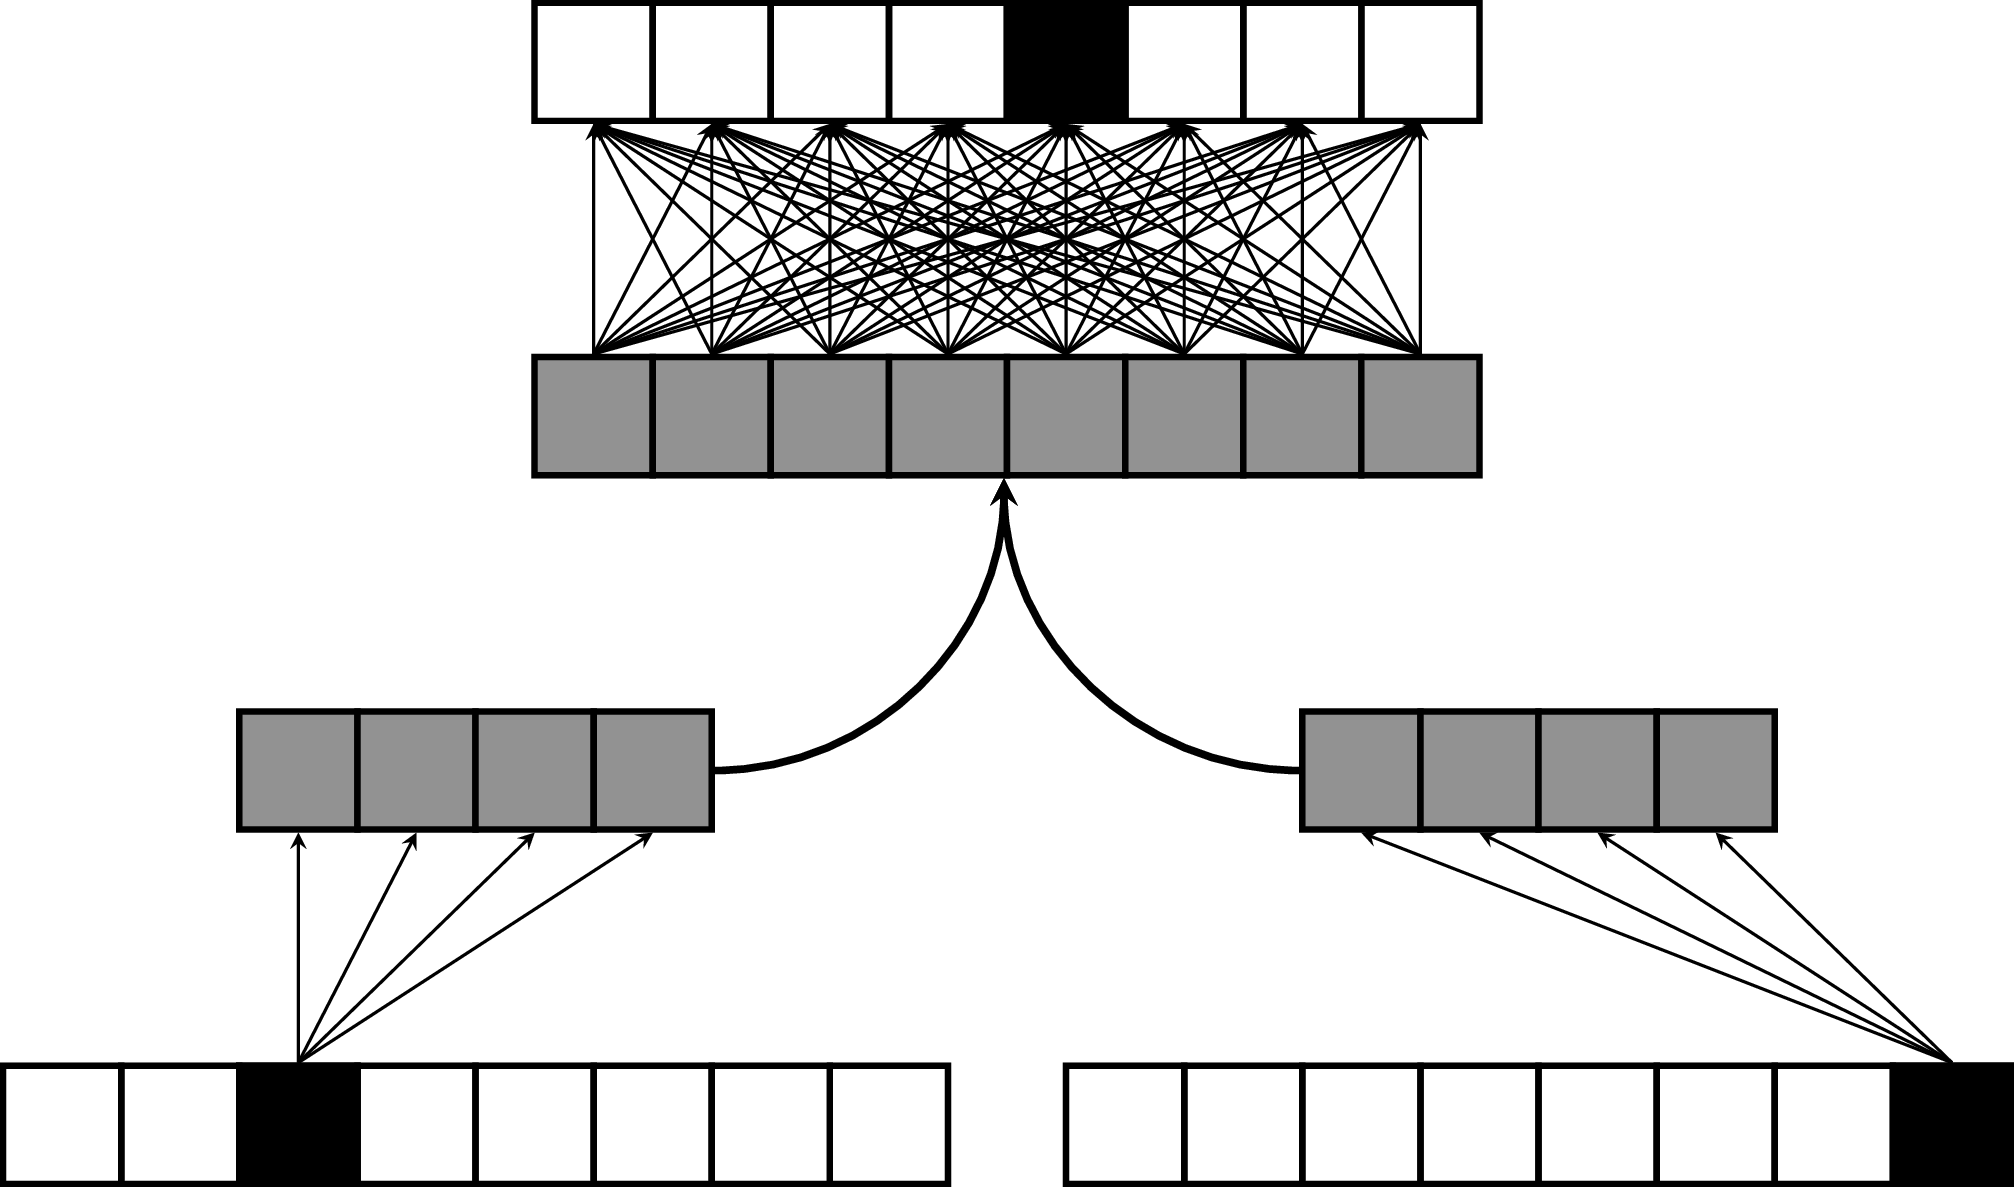
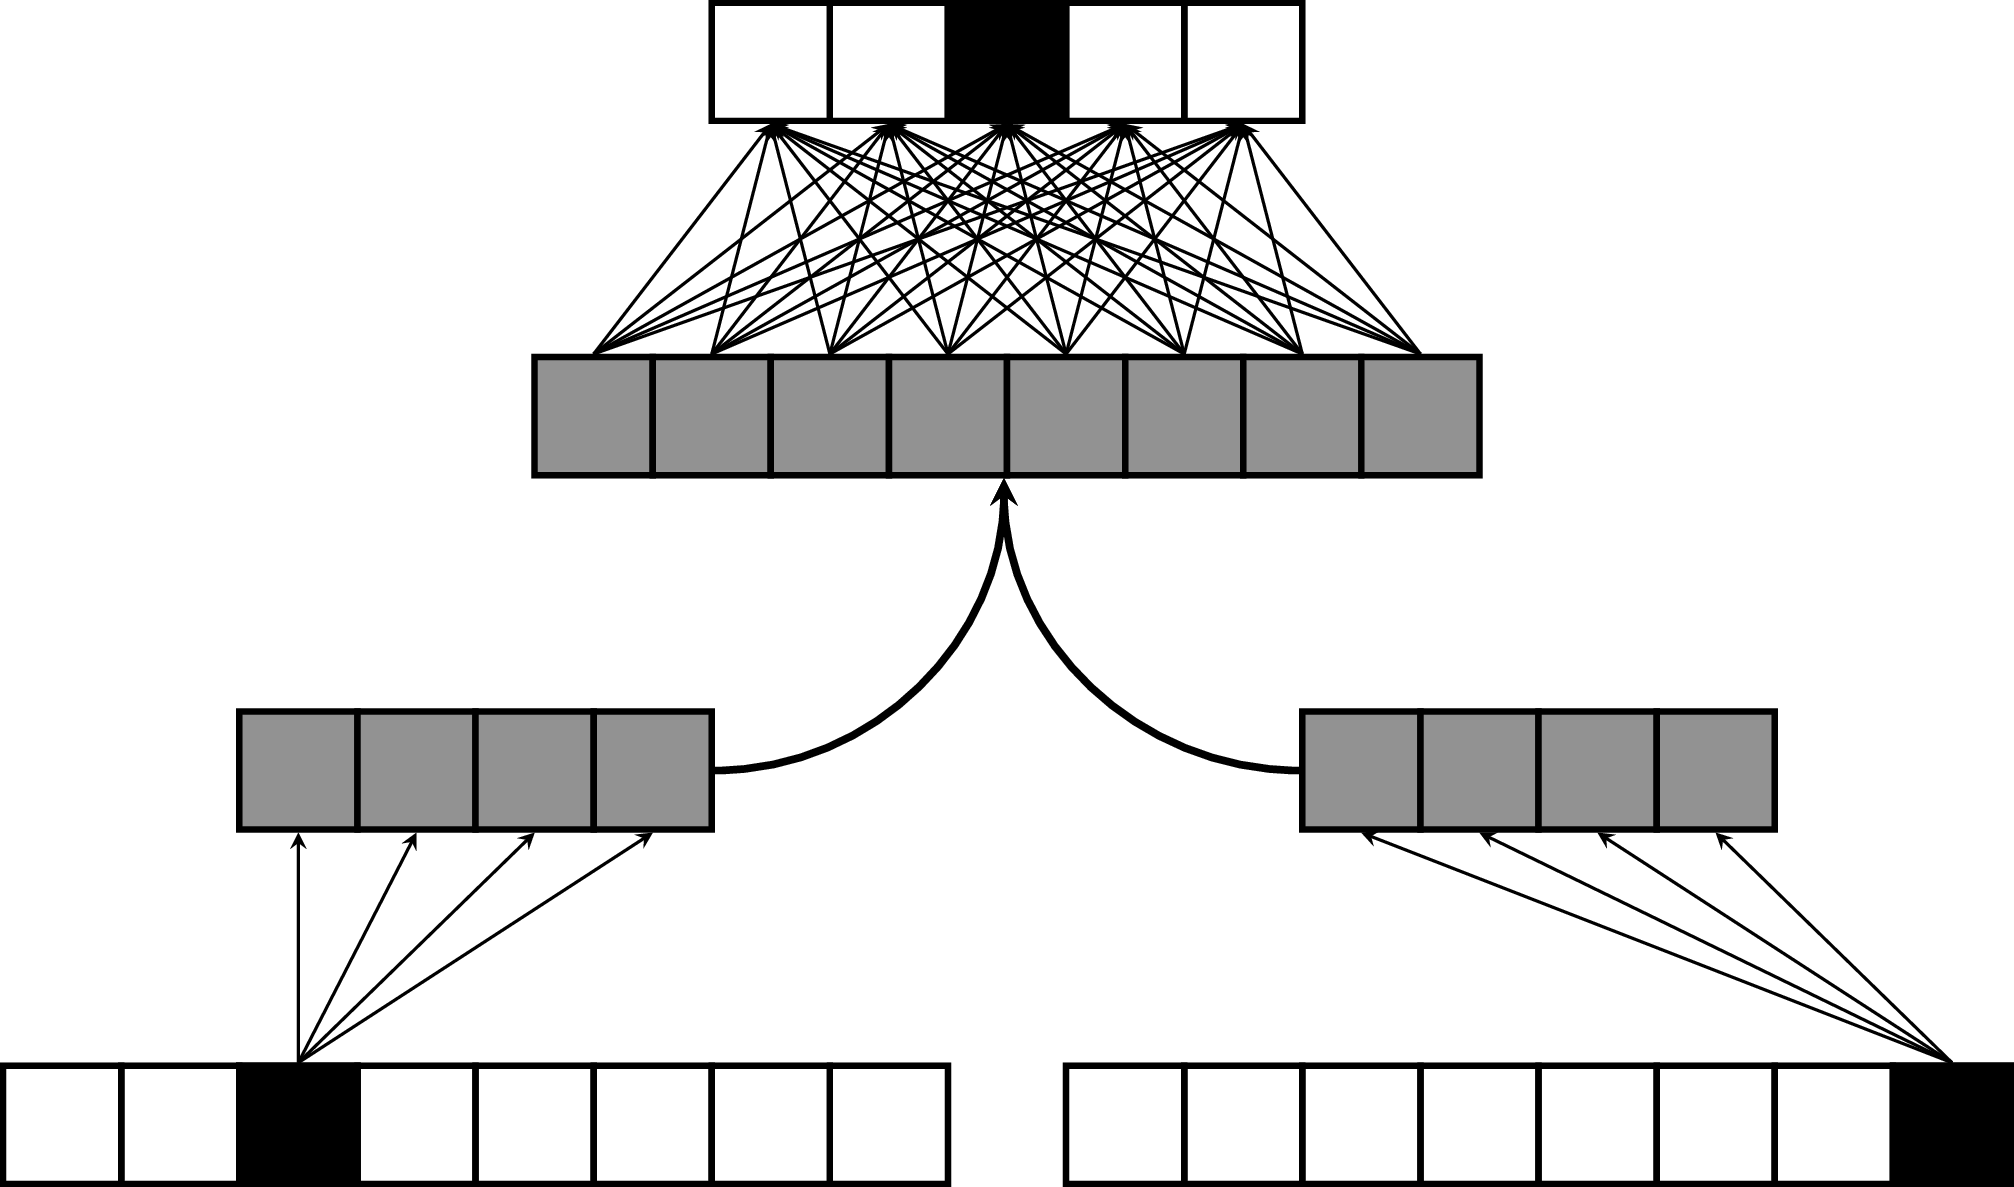
Paper updates.

Changed region(s): [[0.2463, 0.0, 0.7388, 0.3117]]

diff --git a/paper/batter_pitcher_2vec.tex b/paper/batter_pitcher_2vec.tex
@@ -22,7 +22,7 @@
 
 \addbibresource{batter_pitcher_2vec.bib}
 
-\title{(batter|pitcher)2vec: better at-bat modeling with neural player embeddings}
+\title{\texttt{(batter|pitcher)2vec}: better at-bat modeling with neural player embeddings}
 \date{}
 
 \author{
@@ -61,7 +61,7 @@ Whereas the WAR statistic uses a combination of conventional baseball statistics
 
 When scouts assess the talent of a player, they do not simply count up the number of times the player made it to first base or struck out. They consider the player's tendencies in a number of different contexts. For example, a scout might notice that a certain left-handed batter tends to ground out to third base when facing left-handed curveball pitchers. Or that a certain right-handed fastball pitcher tends to struggle against short right-handed batters. An algorithm capable of learning these subtleties would be a valuable tool for assessing player talent.
 
-The task of extracting informative measures of talent in Major League Baseball (MLB) players has a surprising parallel in the field of natural language processing, word embedding modeling. Words, like MLB players, can be considered distinct elements in a set, and one common way to represent categorical data in machine learning algorithms is with one-hot encodings. A one-hot encoding is an $N$-dimensional vector (where $N$ is the number of elements in the set) consisting entirely of zeros except for a single one at the location corresponding to the element's index. For example, the one-hot encodings for a vocabulary consisting of the words \{"dog", "cat", "constitutional"\} might be $\begin{bsmallmatrix} 1 & 0 & 0 \end{bsmallmatrix}$, $\begin{bsmallmatrix} 0 & 1 & 0 \end{bsmallmatrix}$, and $\begin{bsmallmatrix} 0 & 0 & 1 \end{bsmallmatrix}$, respectively.
+The task of extracting informative measures of talent for Major League Baseball (MLB) players has a surprising parallel in the field of natural language processing, the construction of useful word embeddings. Words, like MLB players, can be considered distinct elements in a set, and one common way to represent such categorical data in machine learning algorithms is as one-hot encodings. A one-hot encoding is an $N$-dimensional vector (where $N$ is the number of elements in the set) consisting entirely of zeros except for a single one at the location corresponding to the element's index. For example, the one-hot encodings for a vocabulary consisting of the words \{"dog", "cat", "constitutional"\} might be $\begin{bsmallmatrix} 1 & 0 & 0 \end{bsmallmatrix}$, $\begin{bsmallmatrix} 0 & 1 & 0 \end{bsmallmatrix}$, and $\begin{bsmallmatrix} 0 & 0 & 1 \end{bsmallmatrix}$, respectively.
 
 One drawback of one-hot encodings is that each vector in the set is orthogonal to and equidistant from every other vector in the set; i.e., every element in the set is equally similar (or dissimilar) to every other element in the set. Words, however, do exhibit varying degrees of semantic similarity. For example, the words "dog" and "cat" are clearly semantically more similar than the words "dog" and "constitutional". Word embeddings mathematically encode such similarities as geometric properties (e.g., cosine similarity or Euclidean distance), and the use of these representations generally leads to more computationally efficient learning algorithms \parencite{Bengio2003}.
 
@@ -128,19 +128,19 @@ Play-by-play data for each game from the 2013, 2014, 2015, and 2016 seasons were
 \label{fig:batter_pitcher}
 \end{figure}
 
-The \texttt{(batter|pitcher)2vec} model architecture can be seen in Figure~\ref{fig:batter_pitcher}, and the similarities between \texttt{(batter|pitcher)2vec} and \texttt{word2vec} should be readily apparent. The model takes one-hot encodings of a batter and pitcher as input and selects the player embeddings from the the batter (\ref{eqn:batter_embedding}) and pitcher (\ref{eqn:pitcher_embedding}) embedding matrices, respectively.
+The \texttt{(batter|pitcher)2vec} model architecture can be seen in Figure~\ref{fig:batter_pitcher}, and the similarities between \texttt{(batter|pitcher)2vec} and \texttt{word2vec} should be readily apparent. The model takes one-hot encodings of a batter and pitcher as input and then selects the corresponding player weights from the the batter (\ref{eqn:batter_embedding}) and pitcher (\ref{eqn:pitcher_embedding}) weight matrices, respectively. The player weight vectors are then passed through a "sigmoid"/logistic activation function.
 
 \begin{equation}
 \label{eqn:batter_embedding}
-w_b = W_B \cdot h_b
+w_b = \sigma(W_B \cdot h_b)
 \end{equation}
 
 \begin{equation}
 \label{eqn:pitcher_embedding}
-w_p = W_P \cdot h_p
+w_p = \sigma(W_P \cdot h_p)
 \end{equation}
 
-Here, $h_b$ is the $N_B$-dimensional one-hot vector (where $N_B$ is the number of batters) for the batter indexed by $b$, $W_B$ is the batter embedding matrix, and $w_b$ is the batter's embedding (i.e., the column in $W_B$ indexed by $b$). Likewise, $h_p$ is the $N_P$-dimensional one-hot vector for the pitcher indexed by $p$, $W_P$ is the pitcher embedding matrix, and $w_p$ is the pitcher's embedding.
+Here, $h_b$ is the $N_B$-dimensional one-hot vector (where $N_B$ is the number of batters) for the batter indexed by $b$, $W_B$ is the batter embedding matrix, $\sigma$ is the logistic activation function (i.e., $\frac{1}{1 + e^{-x}}$) and $w_b$ is the batter's embedding. Likewise, $h_p$ is the $N_P$-dimensional one-hot vector for the pitcher indexed by $p$, $W_P$ is the pitcher embedding matrix, and $w_p$ is the pitcher's embedding.
 
 The batter and pitcher embeddings are then concatenated together (\ref{eqn:concat}) and fed into a standard softmax layer (\ref{eqn:output} and \ref{eqn:prob}), which outputs a probability distribution over at-bat outcomes.
 
@@ -175,9 +175,9 @@ The model was implemented in Keras 2.0 \parencite{Keras2015} and trained on a la
 \section{Results}
 \label{results}
 
-\subsection{Visual inspection of player embeddings}
+\subsection{Visual inspection of the player embeddings}
 
-A visual inspection of the player embeddings can provide some intuition for what the model was learning. Two-dimensional embeddings of the batter and pitcher embeddings were obtained using the t-SNE algorithm \parencite{VanderMaaten2008} and can be seen in Figure~\ref{fig:tsne}. Intriguing player clusterings are readily apparent, for example, Mike Trout and Paul Goldschmidt, Dee Gordon and Ichiro Suzuki, and Aroldis Chapman and Dellin Betances are all close pairs.
+A visual inspection of the player embeddings can provide some intuition for what the model learned. Two-dimensional embeddings of the batter and pitcher embeddings were obtained using the t-SNE algorithm \parencite{VanderMaaten2008} and can be seen in Figure~\ref{fig:tsne}. Intriguing player clusterings are readily apparent, with close pairs including: Mike Trout/Paul Goldschmidt, Dee Gordon/Ichiro Suzuki, and Aroldis Chapman/Dellin Betances.
 
 \begin{figure}
 \captionsetup[subfigure]{labelformat=empty}
@@ -226,7 +226,7 @@ Coloring batters according to various properties and plotting them on the first 
 
 Further insight about the player embeddings can be obtained by inspecting the neighborhoods of different players. As suggested by the t-SNE figure, Paul Goldschmidt is Mike Trout's nearest neighbor; an unsurprising result considering how each athlete is known for his rare blend of speed and power \parencite{Kory2015}. Similarly, Ichiro Suzuki is Dee Gordon's nearest neighbor, and both have a reputation for being able to get on base \parencite{Sullivan2015}. Notably, when clustering players using common MLB stats (e.g., HRs, RBIs), Paul Goldschmidt is not among Mike Trout's ten nearest neighbors, nor is Ichiro Suzuki among Dee Gordon's ten nearest neighbors.
 
-On the pitching side, Craig Kimbrel is Aroldis Chapman's nearest neighbor, which is unsurprising considering both are known as elite closers with overpowering fastballs \parencite{Mirsky2016}. Other nearest neighbors are not as immediately intuitive, for example, Clayton Kershaw and Craig Stammen and Sonny Gray and Jake Arrieta, but a method like \texttt{(batter|pitcher)2vec} could potentially reveal surprising similarities between players who are not considered similar by human standards.
+On the pitching side, Craig Kimbrel is Aroldis Chapman's nearest neighbor, which is unsurprising considering both are known as elite closers with overpowering fastballs \parencite{Mirsky2016}. Similarly, Félix Hernández's two nearest neighbors are Jean Machi and Carlos Carrasco, each of whom includes a pitch with incredible movement in his repertoire \parencite{Buchanan2015, Romano2015, Berg2016}. Other nearest neighbors are not as immediately intuitive, for example, Clayton Kershaw and Craig Stammen (although, Zack Greinke is Kershaw's second closest neighbor), but a method like \texttt{(batter|pitcher)2vec} could potentially reveal surprising similarities between players who are not considered similar by human standards.
 
 \subsection{Opposite-handed dopplegängers}
 
@@ -238,7 +238,7 @@ A similar type of algebra may be possible with the \texttt{(batter|pitcher)2vec}
 
 The representations learned by neural networks are theoretically interesting because they suggest the models are learning "causal" factors from inputs when they are able to generalize (or transfer) well \parencite{RepresentationLearning}. In the case of \texttt{(batter|pitcher)2vec}, accurately modeling at-bat outcome distributions for unseen batter and pitcher pairs might indicate that the model is extracting truly meaningful baseball qualities during learning. To test the model, at-bat outcomes were collected from the 2016 season for previously unseen matchups that included batters and pitchers from the training set. In all, there were 21,479 previously unseen matchups corresponding to 51,580 at-bats.
 
-A naïve prediction strategy will be used as a baseline for comparison to \texttt{(batter|pitcher)2vec}. For any given batter, the expected outcome distribution will be defined as:
+A naïve prediction strategy was used as a baseline for comparison to \texttt{(batter|pitcher)2vec}. For any given batter, the expected outcome distribution was defined as:
 
 \begin{equation}
 \label{eqn:batter_naïve}
@@ -252,7 +252,7 @@ where $o_i$ denotes the outcome indexed by $i$, $b_j$ represents the batter inde
 p(o_i|b_j,t_k) = \frac{p(o_i|b_j) + p(o_i|t_k)}{2}
 \end{equation}
 
-The cross entropy can then be obtained for each at-bat in the test set using both the naïve approach and \texttt{(batter|pitcher)2vec}. The naïve approach produces an average cross entropy of $2.8113$ on the test set while \texttt{(batter|pitcher)2vec} produces a significantly ($p < 0.001$) lower average cross entropy of $2.7848$, a $0.94\%$ improvement. But is an improvement of only $0.94\%$ over the baseline particularly impressive? Comparing the performance of \texttt{(batter|pitcher)2vec} to that of a multinomial logistic regression model (Figure~\ref{fig:log_reg}) may provide some insight. In fact, the multinomial logistic regression model yields an average cross entropy of $2.8118$, which is slightly worse than the naïve approach. \texttt{(batter|pitcher)2vec} thus appears to be exceptional in its ability to model at-bat outcome distributions for previously unseen matchups.
+The cross entropy was calculated for each at-bat in the test set using both the naïve approach and \texttt{(batter|pitcher)2vec}. The naïve approach produced an average cross entropy of $2.8113$ on the test set while \texttt{(batter|pitcher)2vec} produced a significantly ($p < 0.001$) lower average cross entropy of $2.7848$, a $0.94\%$ improvement. But is an improvement of only $0.94\%$ over the baseline particularly impressive? Comparing the performance of \texttt{(batter|pitcher)2vec} to that of a multinomial logistic regression model (Figure~\ref{fig:log_reg}) may provide some insight. In fact, the multinomial logistic regression model produced an average cross entropy of $2.8118$, which is slightly worse than the naïve approach. \texttt{(batter|pitcher)2vec} thus appears to be exceptional in its ability to model at-bat outcome distributions for previously unseen matchups.
 
 \begin{figure}
 \centering
@@ -268,9 +268,9 @@ The results presented in this paper should encourage further exploration of simi
 
 Applying \texttt{(batter|pitcher)2vec} to minor league baseball players would allow one to then train a second model that learns to map a player's minor league representation to his MLB representation. Such a model could then be used for scouting purposes by mapping minor league players into the MLB space and investigating the neighborhood of the prospect's mapped embedding.
 
-The player embeddings may allow for better trade evaluations. For example, swapping the players in a proposed trade and "back simulating" games from earlier in the season to 
+The player embeddings may also allow for better trade evaluations. For example, swapping the players in a proposed trade and "back simulating" games from earlier in the season could allow a team to assess how many more (or fewer) wins they would have obtained with the candidate player on the roster.
 
-Interesting applications of \texttt{(batter|pitcher)2vec}-like architectures are also likely possible in sports other than baseball, for example, modeling National Fooball League offenses and defenses as proposed by \parencite{Alcorn2016}.
+Finally, interesting applications of \texttt{(batter|pitcher)2vec}-like architectures are also likely possible in sports other than baseball, for example, modeling National Fooball League offenses and defenses as proposed by \parencite{Alcorn2016}.
 
 \subsubsection*{Acknowledgments}
 

diff --git a/paper/logistic_regression.tex b/paper/logistic_regression.tex
@@ -25,16 +25,16 @@
         \path[->, line width=1.8pt] (I_2-1.west) edge [out=120, in=270] (C-0.south west);
         
         % Output.
-        \foreach \x in {-4,...,3}
-            \node[xshift=0.5cm] (O-\x) at (\x,6) {};
-        \node[fill=black, xshift=0.5cm] (O-0) at (0,6) {};
+        \foreach \x in {-2,...,2}
+            \node (O-\x) at (\x,6) {};
+        \node[fill=black] (O-0) at (0,6) {};
         
         % Batter connections.
-        \foreach \dest in {-4,...,3}
+        \foreach \dest in {-2,...,2}
             \path[line width=0.7pt] (C--6.north) edge (O-\dest.south);
         
         % Pitcher connections.
-        \foreach \dest in {-4,...,3}
+        \foreach \dest in {-2,...,2}
             \path[line width=0.7pt] (C-7.north) edge (O-\dest.south);
         
     \end{tikzpicture}

diff --git a/paper/batter_pitcher_model.tex b/paper/batter_pitcher_model.tex
@@ -38,12 +38,12 @@
         \path[->, line width=1.8pt] (E_2-3.west) edge [out=180, in=270] (P-0.south west);
         
         % Output.
-        \foreach \x in {-4,...,3}
-            \node[xshift=0.5cm] (O-\x) at (\x,9) {};
-        \node[fill=black, xshift=0.5cm] (O-0) at (0,9) {};
+        \foreach \x in {-2,...,2}
+            \node (O-\x) at (\x,9) {};
+        \node[fill=black] (O-0) at (0,9) {};
         
         \foreach \source in {-4,...,3}
-            \foreach \dest in {-4,...,3}
+            \foreach \dest in {-2,...,2}
                 \path[line width=0.7pt] (P-\source.north) edge (O-\dest.south);
         
     \end{tikzpicture}
